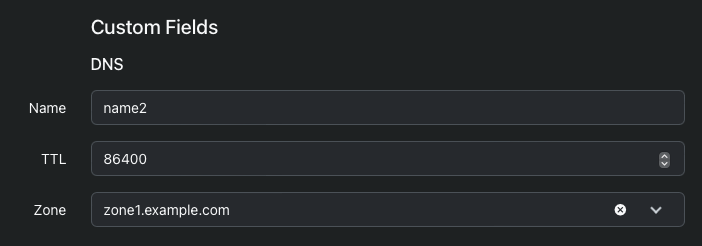
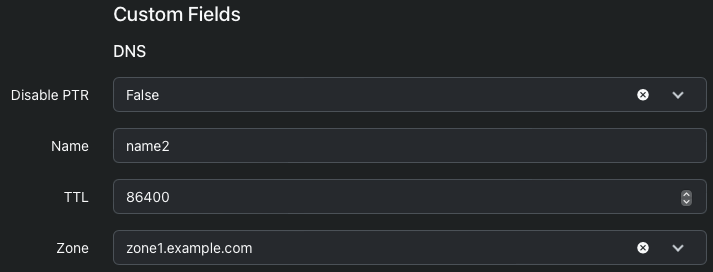
Updated documentation for IPAM Coupling "Disable PTR"

diff --git a/docs/using_netbox_dns.md b/docs/using_netbox_dns.md
@@ -562,11 +562,17 @@ After these steps, a restart of NetBox is required.
 
 ### Using IPAM Coupling
 
-With the new custom fields it is possible to automatically generate a DNS address record for an IP address. To do this, define a name for the record in the 'Name' custom field and select a zone in the 'Zone' custom in the DNS group. Additionally, a TTL value can be set that is to be used for the records created via IPAM coupling.
+With the new custom fields it is possible to automatically generate a DNS address record for an IP address. To do this, define a name for the record in the 'Name' custom field and select a zone in the 'Zone' custom in the DNS group. 
+
+Optionally, a TTL value can be set that is to be used for the records created via IPAM coupling, and the 'Disable PTR' option can be set as well. 'Disable PTR' defaults to 'False', resulting in pointer records being created for address records associated with IP addresses.
 
 ![Custom Fields for IPAM Coupling](images/IPAMCouplingCustomFields.png)
 
-When the IP address is saved, NetBox DNS now automatically creates a managed address record for it in the selected zone, using the name from the 'Name' custom field. The 'DNS Name' field for the IP address is set to the FQDN of the resulting address record. If the TTL field was filled in, the TTL for the created address record will be set to that value.
+When the IP address is saved, NetBox DNS now automatically creates a managed address record for it in the selected zone, using the name from the 'Name' custom field. The 'DNS Name' field for the IP address is set to the FQDN of the resulting address record. 
+
+If the TTL field was filled in, the TTL for the created address record will be set to that value.
+
+If the 'Disable PTR' checkbox is selected, the resulting address record will have that option set as well and no pointer record will be created for the address.
 
 The IP address is now linked to the address record in the following ways:
 
